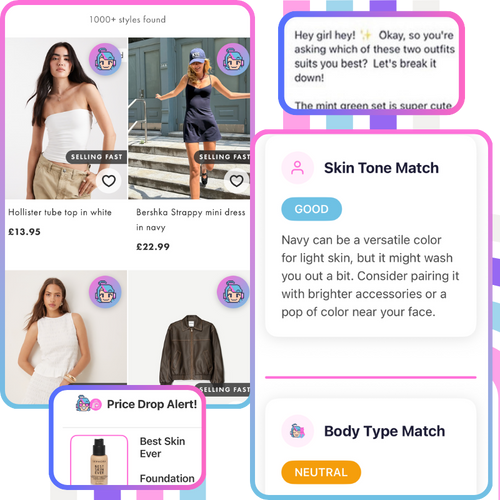
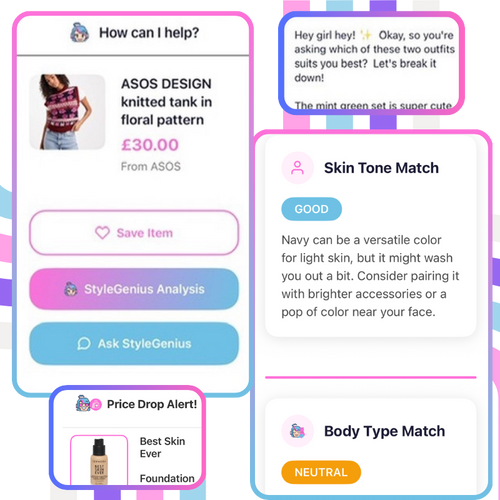
uppdaterad kolage app in action o färger osv på appfeauteres

Changed region(s): [[0.0, 0.0, 0.51, 0.84]]

diff --git a/src/components/AppInAction.tsx b/src/components/AppInAction.tsx
@@ -50,15 +50,15 @@ const AppInAction = () => {
 
         {/* Desktop Layout */}
         <div className="hidden lg:block">
-          {/* Row 1: Shopping iPhone + Kollage + Shopping features */}
-          <div className="grid grid-cols-6 gap-6 mb-12 items-center">
+          {/* Row 1: Shopping iPhone + Kollage */}
+          <div className="grid grid-cols-3 gap-8 mb-16 items-center">
             {/* Shopping iPhone */}
-            <div className={`col-span-2 transition-all duration-[2500ms] ease-out ${isVisible ? 'opacity-100 translate-x-0' : 'opacity-0 -translate-x-20'}`}>
+            <div className={`col-span-1 transition-all duration-[2500ms] ease-out ${isVisible ? 'opacity-100 translate-x-0' : 'opacity-0 -translate-x-20'}`}>
               <div className={`hover:scale-110 transition-transform duration-700 ${isVisible ? 'animate-float' : ''}`}>
                 <img 
                   src="/smartshoppingapp.png" 
                   alt="Smart Shopping App" 
-                  className="w-full h-auto max-h-[500px] object-contain drop-shadow-2xl animate-pulse-glow rounded-3xl"
+                  className="w-full h-auto max-h-[600px] object-contain drop-shadow-2xl animate-pulse-glow rounded-3xl"
                 />
               </div>
             </div>
@@ -69,39 +69,16 @@ const AppInAction = () => {
                 <img 
                   src="/smartshoppingsmartbeautysmartstyling.png" 
                   alt="StyleGenius App Features" 
-                  className="w-full h-auto max-h-[400px] object-contain drop-shadow-xl"
+                  className="w-full h-auto max-h-[500px] object-contain drop-shadow-xl"
                 />
               </div>
             </div>
+          </div>
 
-            {/* Shopping related features */}
-            <div className="col-span-2 grid grid-cols-2 gap-4">
-              <div className={`rounded-2xl overflow-hidden hover:scale-105 hover:shadow-2xl transition-all duration-500 bg-white shadow-lg group ${
-                isVisible ? 'opacity-100 translate-y-0' : 'opacity-0 translate-y-10'
-              }`} style={{ transitionDelay: isVisible ? '1200ms' : '0ms' }}>
-                <img 
-                  src="/smartshoppingbodytype.png" 
-                  alt="Body Type Match" 
-                  className="w-full h-[200px] object-contain p-4"
-                />
-                <div className="px-4 pb-3">
-                  <h4 className="font-semibold text-sm">Smart Body Match</h4>
-                  <p className="text-xs text-gray-600">Never buy anything that doesn't suit you again</p>
-                </div>
-              </div>
-              <div className={`rounded-2xl overflow-hidden hover:scale-105 hover:shadow-2xl transition-all duration-500 bg-white shadow-lg group ${
-                isVisible ? 'opacity-100 translate-y-0' : 'opacity-0 translate-y-10'
-              }`} style={{ transitionDelay: isVisible ? '900ms' : '0ms' }}>
-                <img 
-                  src="/makeupassistantai.png" 
-                  alt="Makeup Assistant" 
-                  className="w-full h-[200px] object-contain p-4"
-                />
-                <div className="px-4 pb-3">
-                  <h4 className="font-semibold text-sm">Personalized Makeup</h4>
-                  <p className="text-xs text-gray-600">Get makeup tips for your skin & face - always glowing</p>
-                </div>
-              </div>
+          {/* Row 2: Features (som INTE finns i kollaget) + Chat iPhone */}
+          <div className="grid grid-cols-5 gap-8 items-center">
+            {/* Features som inte är i kollaget */}
+            <div className="col-span-3 grid grid-cols-2 gap-6">
               <div className={`rounded-2xl overflow-hidden hover:scale-105 hover:shadow-2xl transition-all duration-500 bg-white shadow-lg group ${
                 isVisible ? 'opacity-100 translate-y-0' : 'opacity-0 translate-y-10'
               }`} style={{ transitionDelay: isVisible ? '1200ms' : '0ms' }}>
@@ -119,33 +96,13 @@ const AppInAction = () => {
                 isVisible ? 'opacity-100 translate-y-0' : 'opacity-0 translate-y-10'
               }`} style={{ transitionDelay: isVisible ? '1500ms' : '0ms' }}>
                 <img 
-                  src="/smartmakeupshopping.png" 
-                  alt="Smart Makeup Shopping" 
+                  src="/shoppingassistantaiapp.png" 
+                  alt="AI Style Expert" 
                   className="w-full h-[200px] object-contain p-4"
                 />
                 <div className="px-4 pb-3">
-                  <h4 className="font-semibold text-sm">Curated Beauty Picks</h4>
-                  <p className="text-xs text-gray-600">Stop wasting money on wrong shades & formulas</p>
-                </div>
-              </div>
-            </div>
-          </div>
-
-          {/* Row 2: Chat features + Chat iPhone */}
-          <div className="grid grid-cols-5 gap-8 items-center">
-            {/* Chat feature */}
-            <div className={`col-span-3 transition-all duration-[2000ms] ease-out ${
-              isVisible ? 'opacity-100 translate-x-0' : 'opacity-0 -translate-x-20'
-            }`} style={{ transitionDelay: isVisible ? '1800ms' : '0ms' }}>
-              <div className="rounded-2xl overflow-hidden hover:scale-105 hover:shadow-2xl transition-all duration-500 bg-white shadow-lg">
-                <img 
-                  src="/shoppingassistantaiapp.png" 
-                  alt="How Can I Help?" 
-                  className="w-full h-[280px] object-contain p-6"
-                />
-                <div className="px-6 pb-4">
-                  <h4 className="font-semibold">Your 24/7 Style Expert</h4>
-                  <p className="text-sm text-gray-600">From "what to wear" to "where to buy" - get instant answers that save you time & money</p>
+                  <h4 className="font-semibold text-sm">Your 24/7 Style Expert</h4>
+                  <p className="text-xs text-gray-600">From "what to wear" to "where to buy" - instant answers</p>
                 </div>
               </div>
             </div>
@@ -153,7 +110,7 @@ const AppInAction = () => {
             {/* Chat iPhone */}
             <div className={`col-span-2 transition-all duration-[2500ms] ease-out ${
               isVisible ? 'opacity-100 translate-x-0' : 'opacity-0 translate-x-20'
-            }`} style={{ transitionDelay: isVisible ? '2100ms' : '0ms' }}>
+            }`} style={{ transitionDelay: isVisible ? '1800ms' : '0ms' }}>
               <div className={`hover:scale-110 transition-transform duration-700 ${isVisible ? 'animate-float' : ''}`} style={{ animationDelay: '2.5s' }}>
                 <img 
                   src="/stylingassistantchatai.png" 
@@ -167,36 +124,7 @@ const AppInAction = () => {
 
         {/* Mobile Layout */}
         <div className="lg:hidden space-y-6">
-          {/* Large iPhone mockup 1 */}
-          <div className="flex justify-center">
-            <div className="w-72 hover:scale-105 transition-transform duration-300">
-              <img 
-                src="/stylingassistantchatai.png" 
-                alt="Styling Assistant Chat AI" 
-                className="w-full h-auto drop-shadow-2xl"
-              />
-            </div>
-          </div>
-
-          {/* 2 smaller features side by side */}
-          <div className="grid grid-cols-2 gap-4">
-            <div className="rounded-xl overflow-hidden bg-white shadow-md">
-              <img 
-                src="/makeupassistantai.png" 
-                alt="Makeup Assistant AI" 
-                className="w-full h-32 object-contain p-2"
-              />
-            </div>
-            <div className="rounded-xl overflow-hidden bg-white shadow-md">
-              <img 
-                src="/shoppingassistantaiapp.png" 
-                alt="Shopping Assistant AI App" 
-                className="w-full h-32 object-contain p-2"
-              />
-            </div>
-          </div>
-
-          {/* Large iPhone mockup 2 */}
+          {/* Shopping iPhone */}
           <div className="flex justify-center">
             <div className="w-72 hover:scale-105 transition-transform duration-300">
               <img 
@@ -207,30 +135,43 @@ const AppInAction = () => {
             </div>
           </div>
 
-          {/* 3 smaller features */}
-          <div className="space-y-4">
-            <div className="rounded-xl overflow-hidden bg-white shadow-md">
+          {/* Kollage */}
+          <div className="flex justify-center">
+            <div className="w-80 hover:scale-105 transition-transform duration-300">
               <img 
-                src="/smartmakeupshopping.png" 
-                alt="Smart Makeup Shopping" 
-                className="w-full h-32 object-contain p-3"
+                src="/smartshoppingsmartbeautysmartstyling.png" 
+                alt="StyleGenius App Features" 
+                className="w-full h-auto drop-shadow-xl"
               />
             </div>
-            <div className="grid grid-cols-2 gap-4">
-              <div className="rounded-xl overflow-hidden bg-white shadow-md">
-                <img 
-                  src="/smartshoppingbodytype.png" 
-                  alt="Smart Shopping Body Type" 
-                  className="w-full h-32 object-contain p-2"
-                />
-              </div>
-              <div className="rounded-xl overflow-hidden bg-white shadow-md">
-                <img 
-                  src="/pricetrackingbrowserextension.png" 
-                  alt="Price Tracking Browser Extension" 
-                  className="w-full h-32 object-contain p-2"
-                />
-              </div>
+          </div>
+
+          {/* Chat iPhone */}
+          <div className="flex justify-center">
+            <div className="w-72 hover:scale-105 transition-transform duration-300">
+              <img 
+                src="/stylingassistantchatai.png" 
+                alt="Styling Assistant Chat AI" 
+                className="w-full h-auto drop-shadow-2xl"
+              />
+            </div>
+          </div>
+
+          {/* Extra features */}
+          <div className="grid grid-cols-2 gap-4">
+            <div className="rounded-xl overflow-hidden bg-white shadow-md">
+              <img 
+                src="/pricetrackingbrowserextension.png" 
+                alt="Price Tracking" 
+                className="w-full h-32 object-contain p-2"
+              />
+            </div>
+            <div className="rounded-xl overflow-hidden bg-white shadow-md">
+              <img 
+                src="/shoppingassistantaiapp.png" 
+                alt="AI Style Expert" 
+                className="w-full h-32 object-contain p-2"
+              />
             </div>
           </div>
         </div>

diff --git a/src/components/AppFeatures.tsx b/src/components/AppFeatures.tsx
@@ -4,7 +4,7 @@ const AppFeatures = () => {
   const features = [
     {
       title: "Smart Shopping",
-      subtitle: "Save money with price tracking, buy only what you will wear and suits you perfectly",
+      subtitle: "Save money with price tracking on your favorite sites - buy only what suits you perfectly",
       image: "/shopsmarter.png",
       gradient: "from-pink-500 to-purple-600"
     },
@@ -82,7 +82,17 @@ const AppFeatures = () => {
                   )}
                 </h3>
                 <p className="text-lg text-gray-600 font-medium">
-                  {feature.subtitle}
+                  {index === 0 ? (
+                    <>
+                      Save money with price tracking on{" "}
+                      <span className="font-bold" style={{ color: '#FF70D9' }}>
+                        your favorite sites
+                      </span>
+                      {" "}- buy only what suits you perfectly
+                    </>
+                  ) : (
+                    feature.subtitle
+                  )}
                 </p>
               </div>
             </div>
